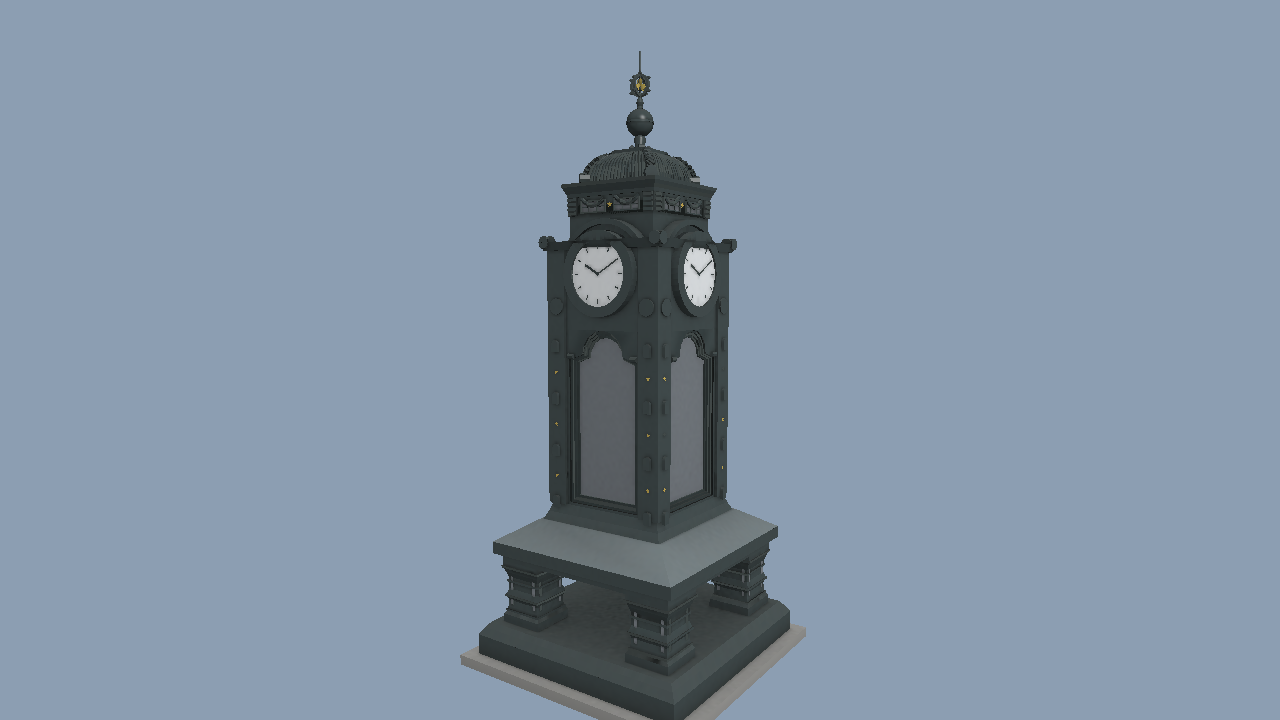
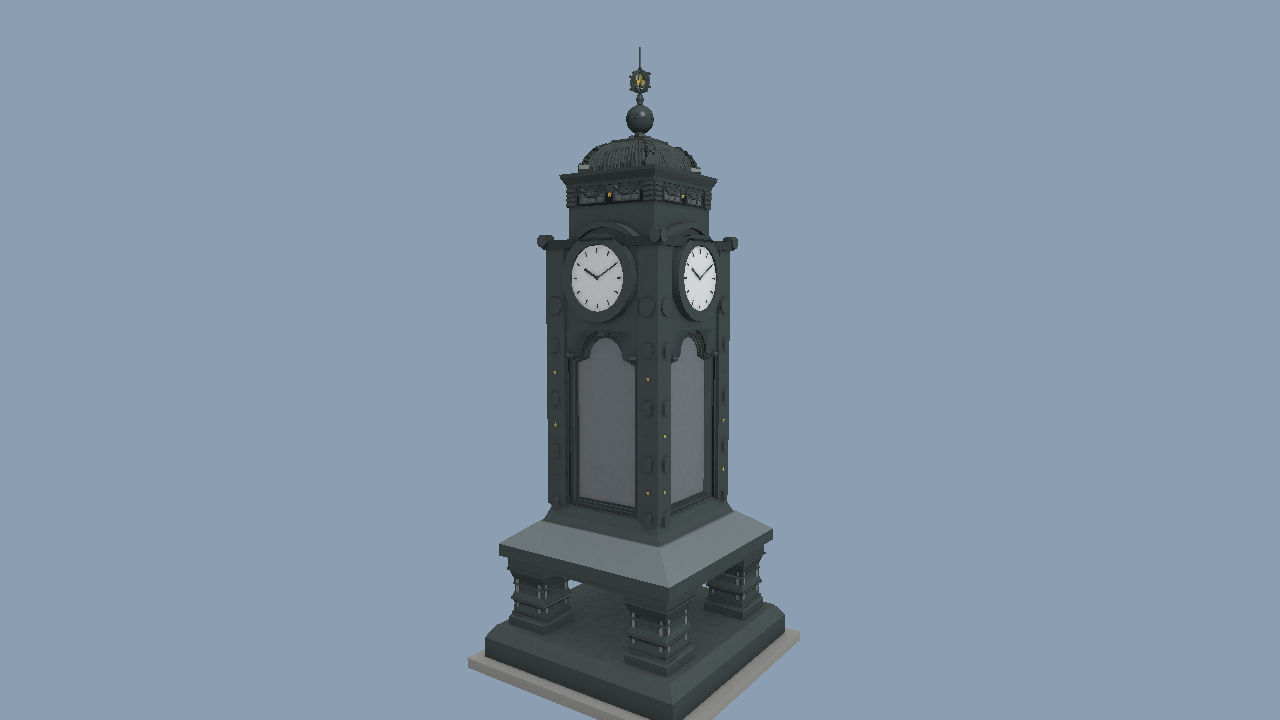
art: Kröpcke-Uhr two-photo round — cornice/frieze/dome +7 cm, dial -5 cm, base widths x0.95, ref/01 base landmarks re-read at the near leg (RMS ref/04 10.9 px, ref/01 23.8 px)

diff --git a/RunnerGame/Art/assets/kroepcke_uhr/build.py b/RunnerGame/Art/assets/kroepcke_uhr/build.py
@@ -554,7 +554,7 @@ def build(spec):
         "dial_side_centre": (-ring_front, 0, dz),           # +X face dial (ring_front is the front dial y < 0)
         "ledge_back_r": (lw, lw, ledge["profile"][1][0]),
         "ledge_near_bottom": (lw, -lw, ledge["profile"][0][0]),
-        "plinth_near": (d("plinth_slab")["stone"]["w"] / 2, -d("plinth_slab")["stone"]["w"] / 2, 0.0),
+        "plinth_near": (d("plinth_slab")["iron_plinth"]["profile"][0][1] / 2, -d("plinth_slab")["iron_plinth"]["profile"][0][1] / 2, d("plinth_slab")["iron_plinth"]["profile"][0][0]),   # iron plinth bottom, near corner
         "crown_back_r": (cw, cw, cz0),
     }.items():
         pl.landmark(name, loc)

diff --git a/RunnerGame/Art/assets/ordnungsamt_pursuer/BRIEF.md b/RunnerGame/Art/assets/ordnungsamt_pursuer/BRIEF.md
@@ -1,0 +1,13 @@
+# Fictional Ordnungsamt pursuer
+
+Approved character direction: combine a recognisable municipal officer with a comically persistent veteran. No cap. Stocky build with believable human proportions, short hair, moustache, expressive eyebrows, navy uniform, sturdy black shoes and shoulder radio. Clear ORDNUNGSAMT lettering on back and chest. Humour comes from determined expression and running effort.
+
+Uniform decision (2026-10-18): user chose the more realistic treatment. Prioritise Hannover references: dark navy service clothing, with pale blue shirt where visible. Do not use the Cologne yellow/orange high-visibility vest as the default uniform, and do not assume a tactical vest is standard in Hannover. Exact equipment and garment cut remain subject to visual reference verification. Official local reference: https://www.hannover.de/Media/01-DATA-Neu/Bilder/Landeshauptstadt-Hannover/Verwaltung/FB-%C3%96ffentliche-Ordnung/Ordnungsdienst . City documentation describes dark blue uniform and pale blue shirt: https://e-government.hannover-stadt.de/lhhSIMwebdd.nsf/78F5944099ACBEA8C12581AD001F25E2/%24FILE/AAGBOB_20170608_Anlage2.pdf . This establishes a design basis, not a verified complete contemporary uniform inventory.
+
+This is an original fictional character, not a likeness of a photographed employee. Photos inform garment construction and equipment only. Hannover calls its service Stadt Hannover Ordnungsdienst; ORDNUNGSAMT is the user's chosen fictional label.
+
+Proposed production defaults (not yet approved at reference gate): medium detail, about 1.78 m standing height, <=12,000 triangles per pose, 1024-square texture, three running poses. Preserve one editable Blender source with pose controls; export static OBJ poses for the engine, which has no skeletal animation. Establish the character shape in a neutral pose before deriving running poses. Preview front, rear and three-quarter views before final export or installation.
+
+Adapt photo-to-model to a fictional human: measured garment proportions and visual comparison, rather than copying the identity or exact silhouette of a real person. Lettering is original typography, with no copied municipal crest or photo pixels. No external generators or paid services.
+
+Reference stage: Commons contact sheet inspected. ref/01 shows Cologne high-visibility vests, useful only for general lettering placement; it does not establish Hannover uniform. ref/02 depicts a vehicle and is unsuitable for character modeling. Neither provides the front/side character references required for measured modeling; do not claim the reference gate is complete. Find suitable garment references before creating spec.json with sourced measurements versus explicit artistic estimates. Do not install until the user sees the engine result.
